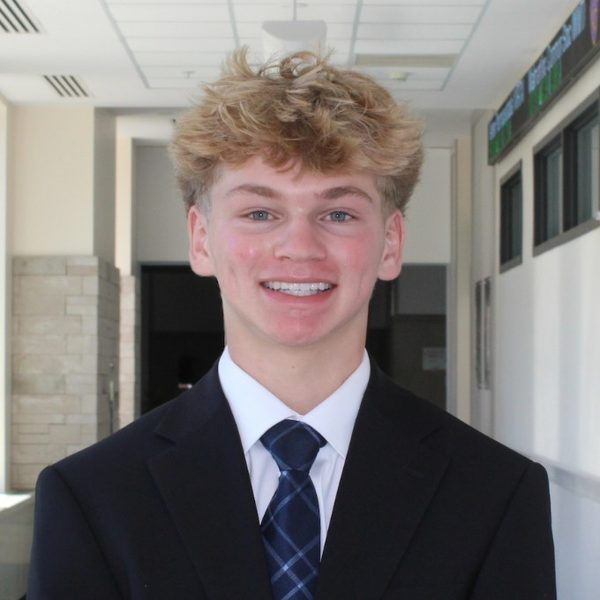
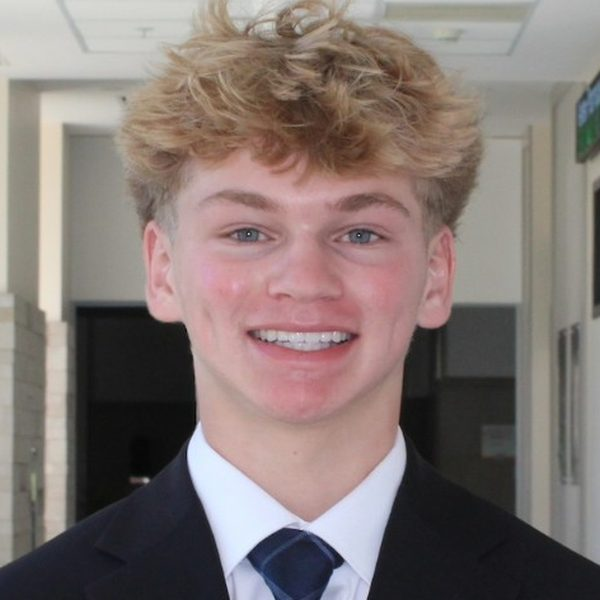
Show all nine officers as equal cards
Replace the exec/team split with a single 3x3 grid (2 columns on
phones, last card centered). Re-crop every headshot around a detected
face box so faces sit at the same scale and height in each frame.

Claude-Session: https://claude.ai/code/session_01N8SDWyAX9hWAKtgMe1X6A6

diff --git a/css/styles.css b/css/styles.css
@@ -299,16 +299,7 @@ a.hub-card:hover .hub-arrow { color: var(--text); transform: translateX(3px); }
 }
 
 /* ── Leadership ─────────────────────────────────────────── */
-.leadership { display: grid; gap: clamp(36px, 5vw, 56px); }
-.leader-group-label {
-  display: flex; align-items: center; gap: 16px; margin-bottom: 18px;
-  font: 500 12px/1.4 var(--font-mono); letter-spacing: .12em; text-transform: uppercase; color: var(--text-3);
-}
-.leader-group-label::after { content: ""; flex: 1; height: 1px; background: var(--line); }
-.leaders { display: grid; gap: 16px; }
-.leader-group-exec .leaders { grid-template-columns: repeat(3, 1fr); gap: 20px; }
-.leader-group-team .leaders { grid-template-columns: repeat(6, 1fr); }
-
+.leaders { display: grid; grid-template-columns: repeat(3, 1fr); gap: 20px; }
 .leader {
   display: flex; flex-direction: column; overflow: hidden;
   background: var(--surface); border: 1px solid var(--line); border-radius: var(--radius);
@@ -331,16 +322,13 @@ a.hub-card:hover .hub-arrow { color: var(--text); transform: translateX(3px); }
   background: linear-gradient(to top, rgba(19, 33, 49, 0.55), rgba(19, 33, 49, 0) 30%);
 }
 .leader-initials { font: 700 56px/1 var(--font-display); color: var(--line-strong); letter-spacing: .02em; }
-.leader-info { display: flex; flex-direction: column; flex: 1; padding: 14px 16px 18px; }
+.leader-info { display: flex; flex-direction: column; flex: 1; padding: 18px 22px 22px; }
+.leader h3 { font: 600 clamp(22px, 2.2vw, 28px)/1.1 var(--font-display); text-transform: uppercase; letter-spacing: .01em; }
+.leader h3.is-placeholder { color: var(--text-3); }
 .leader-role {
   margin-top: 6px;
-  font: 500 11px/1.45 var(--font-mono); letter-spacing: .1em; text-transform: uppercase; color: var(--text-3);
+  font: 500 12px/1.45 var(--font-mono); letter-spacing: .1em; text-transform: uppercase; color: var(--accent);
 }
-.leader h4 { margin: 0; font: 600 20px/1.1 var(--font-display); text-transform: uppercase; letter-spacing: .01em; }
-.leader h4.is-placeholder { color: var(--text-3); }
-.leader-group-exec .leader-info { padding: 18px 22px 22px; }
-.leader-group-exec .leader-role { font-size: 12px; color: var(--accent); }
-.leader-group-exec .leader h4 { font-size: clamp(24px, 2.6vw, 30px); }
 .leader-sub { margin-top: 4px; font-size: 14px; color: var(--text-3); }
 .leader-bio { margin-top: 10px; font-size: 15px; color: var(--text-2); }
 .leader-socials { display: flex; gap: 8px; margin-top: auto; padding-top: 14px; }
@@ -351,16 +339,13 @@ a.hub-card:hover .hub-arrow { color: var(--text); transform: translateX(3px); }
 .leader-socials a:hover { color: var(--text); border-color: var(--text-2); }
 .leader-socials svg { width: 16px; height: 16px; }
 
-@media (max-width: 1080px) { .leader-group-team .leaders { grid-template-columns: repeat(3, 1fr); } }
 @media (max-width: 720px) {
-  .leader-group-exec .leaders { grid-template-columns: repeat(2, 1fr); gap: 12px; }
-  .leader-group-exec .leader:first-child { grid-column: 1 / -1; flex-direction: row; }
-  .leader-group-exec .leader:first-child .leader-photo { width: 48%; flex: none; }
-  .leader-group-exec .leader:first-child .leader-info { justify-content: center; }
-  .leader-group-team .leaders { grid-template-columns: repeat(2, 1fr); gap: 12px; }
-  .leader-group-exec .leader-info { padding: 14px 16px 18px; }
-  .leader h4 { font-size: 18px; }
-  .leader-group-exec .leader h4 { font-size: 22px; }
+  .leaders { grid-template-columns: repeat(2, 1fr); gap: 12px; }
+  /* Odd count: center the last card instead of leaving a gap. */
+  .leader:last-child:nth-child(odd) { grid-column: 1 / -1; justify-self: center; width: calc(50% - 6px); }
+  .leader-info { padding: 14px 16px 18px; }
+  .leader h3 { font-size: 19px; }
+  .leader-role { font-size: 11px; }
 }
 
 /* ── Projects ───────────────────────────────────────────── */

diff --git a/js/data.js b/js/data.js
@@ -92,21 +92,20 @@ window.WBAC = {
   ],
 
   /*
-   * Leadership. group "exec" appears in the featured top row; everyone
-   * else goes in "team". Order within each group is display order.
+   * Leadership, in display order (three per row on desktop).
    * Headshots live in assets/leaders/ (square crops, ~600px).
    * Optional fields per person: year, major, bio, linkedin, email.
    */
   leadership: [
-    { name: "Jack Doster", role: "President", group: "exec", photo: "assets/leaders/jack-doster.jpg" },
-    { name: "Max Toy", role: "Vice President", group: "exec", photo: "assets/leaders/max-toy.jpg" },
-    { name: "Connor Edds", role: "Treasurer", group: "exec", photo: "assets/leaders/connor-edds.jpg" },
-    { name: "Jackson McGuire", role: "Head of Analytics", group: "team", photo: "assets/leaders/jackson-mcguire.jpg" },
-    { name: "Carmine Genovese", role: "Analytics Project Lead", group: "team", photo: "assets/leaders/carmine-genovese.jpg" },
-    { name: "Adi Jalram", role: "Outreach & Recruitment Coordinator", group: "team", photo: "assets/leaders/adi-jalram.jpg" },
-    { name: "Blaine Ford", role: "Social Media Manager", group: "team", photo: "assets/leaders/blaine-ford.jpg" },
-    { name: "Ryan Doster", role: "Analytics Researcher", group: "team", photo: "assets/leaders/ryan-doster.jpg" },
-    { name: "Jack Brennan", role: "Analytics Researcher", group: "team", photo: "assets/leaders/jack-brennan.jpg" },
+    { name: "Jack Doster", role: "President", photo: "assets/leaders/jack-doster.jpg" },
+    { name: "Max Toy", role: "Vice President", photo: "assets/leaders/max-toy.jpg" },
+    { name: "Connor Edds", role: "Treasurer", photo: "assets/leaders/connor-edds.jpg" },
+    { name: "Jackson McGuire", role: "Head of Analytics", photo: "assets/leaders/jackson-mcguire.jpg" },
+    { name: "Carmine Genovese", role: "Analytics Project Lead", photo: "assets/leaders/carmine-genovese.jpg" },
+    { name: "Adi Jalram", role: "Outreach & Recruitment Coordinator", photo: "assets/leaders/adi-jalram.jpg" },
+    { name: "Blaine Ford", role: "Social Media Manager", photo: "assets/leaders/blaine-ford.jpg" },
+    { name: "Ryan Doster", role: "Analytics Researcher", photo: "assets/leaders/ryan-doster.jpg" },
+    { name: "Jack Brennan", role: "Analytics Researcher", photo: "assets/leaders/jack-brennan.jpg" },
   ],
 
   /*

diff --git a/js/main.js b/js/main.js
@@ -152,7 +152,7 @@
             : '<span class="leader-initials" aria-hidden="true">' + initials(p.name) + "</span>") +
         "</div>" +
         '<div class="leader-info">' +
-          '<h4 class="' + (isPlaceholder(p.name) ? "is-placeholder" : "") + '">' + esc(name) + "</h4>" +
+          '<h3 class="' + (isPlaceholder(p.name) ? "is-placeholder" : "") + '">' + esc(name) + "</h3>" +
           '<span class="leader-role">' + esc(p.role) + "</span>" +
           (sub ? '<p class="leader-sub">' + esc(sub) + "</p>" : "") +
           (p.bio ? '<p class="leader-bio">' + esc(p.bio) + "</p>" : "") +
@@ -164,21 +164,7 @@
 
   function renderLeadership() {
     var el = $("#leadership-grid");
-    if (!el) return;
-    var groups = [
-      { key: "exec", label: "Executive board" },
-      { key: "team", label: "Analytics & operations" },
-    ];
-    el.innerHTML = groups.map(function (g) {
-      var people = D.leadership.filter(function (p) { return (p.group || "team") === g.key; });
-      if (!people.length) return "";
-      return (
-        '<div class="leader-group leader-group-' + g.key + '">' +
-          '<h3 class="leader-group-label">' + g.label + "</h3>" +
-          '<div class="leaders">' + people.map(leaderCard).join("") + "</div>" +
-        "</div>"
-      );
-    }).join("");
+    if (el) el.innerHTML = D.leadership.map(leaderCard).join("");
   }
 
   /* ── Projects ────────────────────────────────────────── */

diff --git a/index.html b/index.html
@@ -125,7 +125,7 @@
           </div>
           <p>The people running meetings, building projects and keeping the group chat alive.</p>
         </div>
-        <div class="leadership" id="leadership-grid"></div>
+        <div class="leaders" id="leadership-grid"></div>
       </div>
     </section>
 
